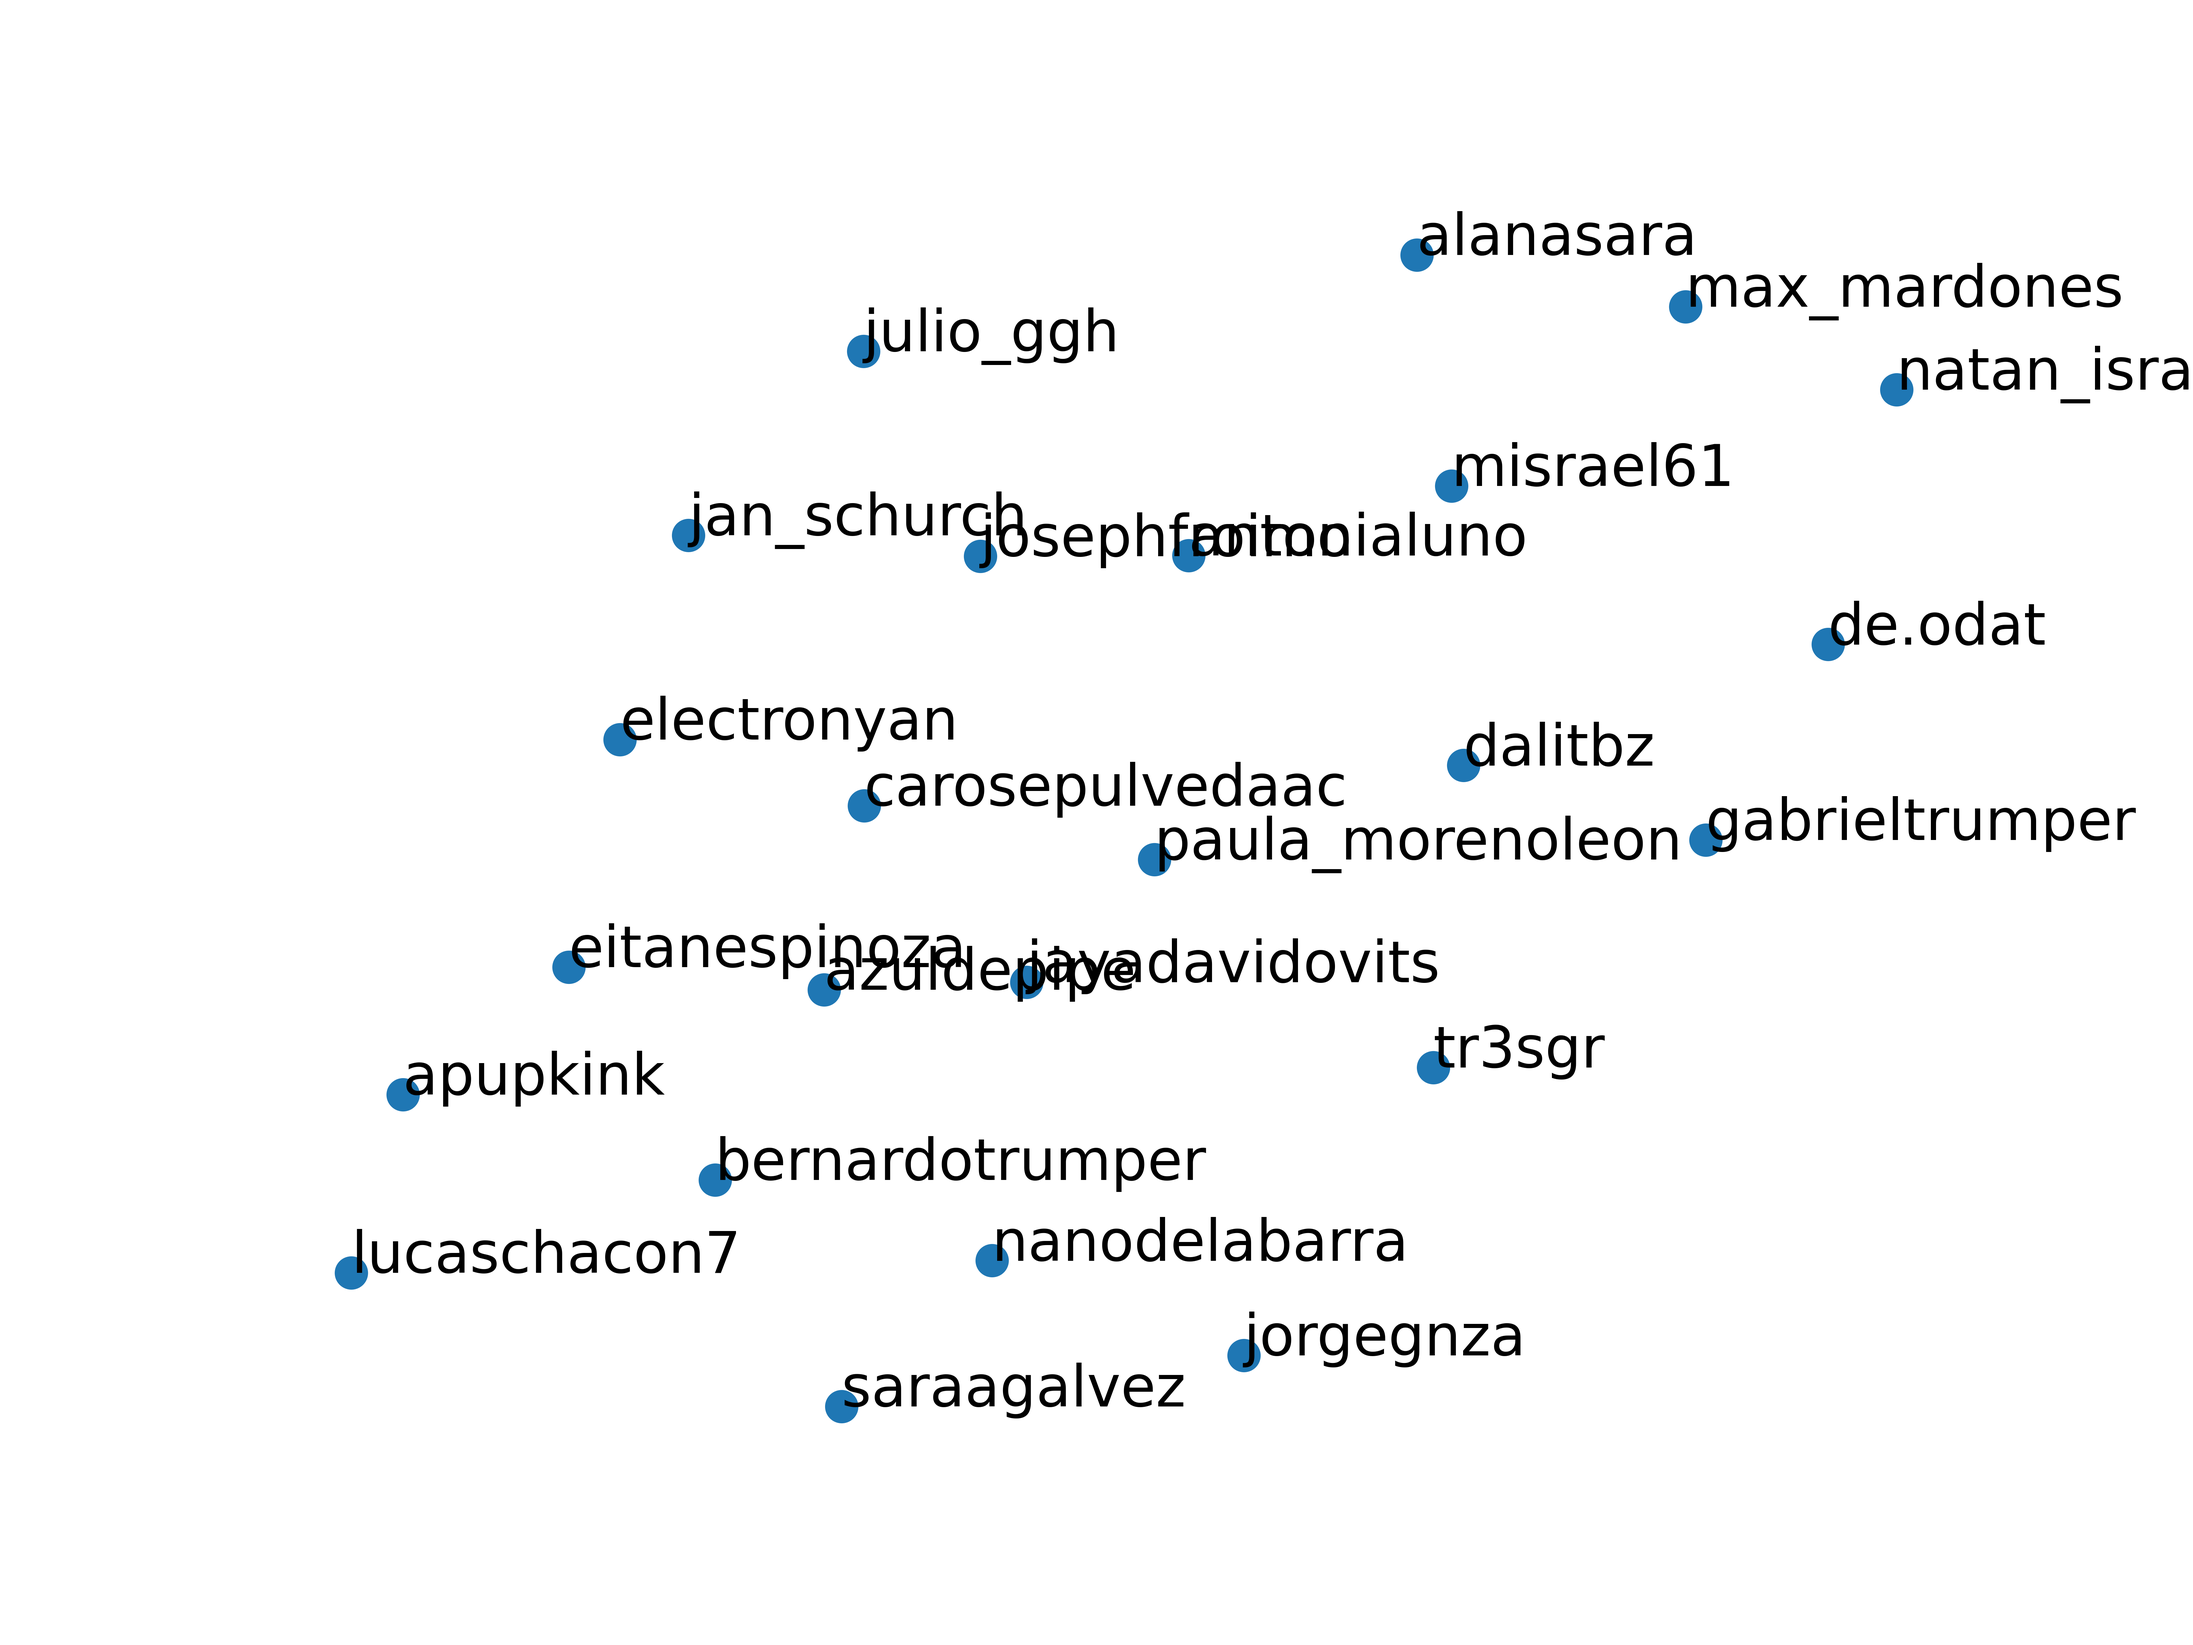
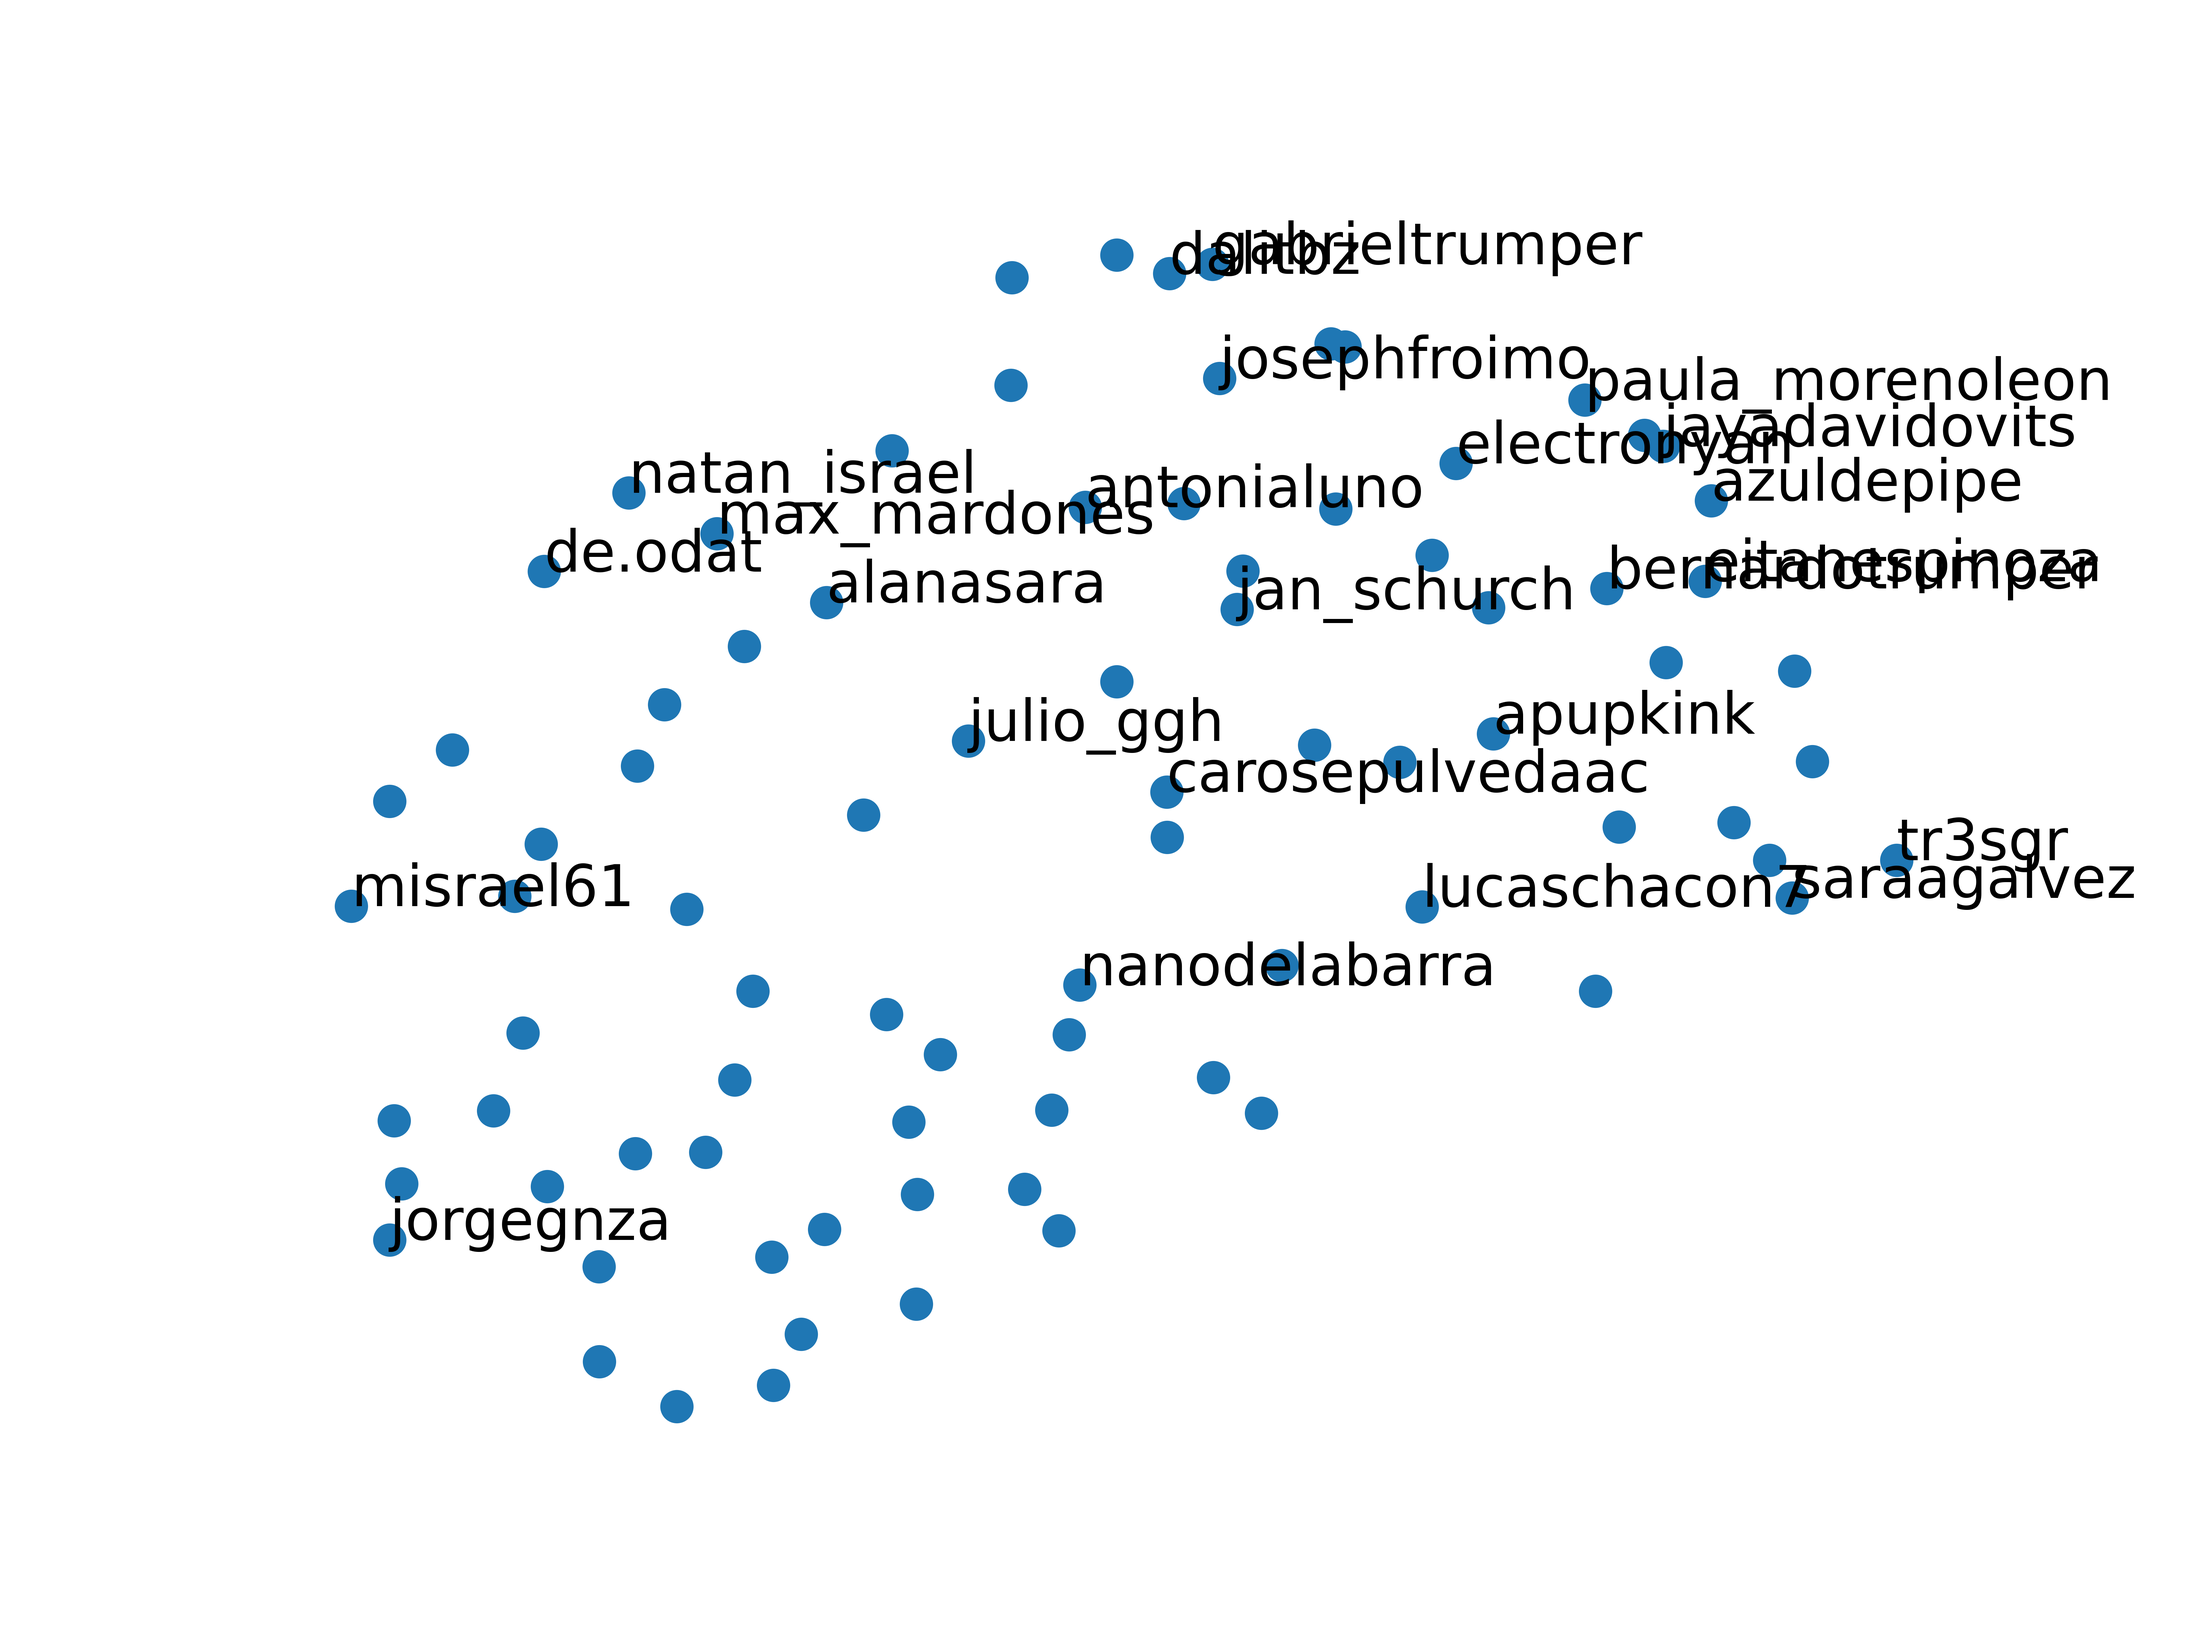
Fix encoding and name cluttering

diff --git a/main.py b/main.py
@@ -11,7 +11,7 @@ print("Libraries imported successfully.")
 
 # Read data and their responses from a CSV file, replace data.csv with own link or file name
 data_map = {}
-with open('data.csv', newline='') as csvfile:
+with open('data.csv', newline='', encoding='utf-8') as csvfile:
     data = csv.reader(csvfile, delimiter=',', quotechar='"')
     next(data)  # Skip the header row
     for row in data:
@@ -43,7 +43,10 @@ label = list(person_embeddings.keys())
 # Plotting and annotating data points
 plt.scatter(x,y)
 for i, name in enumerate(label):
-    plt.annotate(name, (x[i], y[i]), fontsize="12", color="black")  # Increased font size to 12 and set color to white
+    if "NPC" in name:
+        plt.annotate("", (x[i], y[i]), fontsize="0", color="black")
+    else:
+        plt.annotate(name, (x[i], y[i]), fontsize="12", color="black")  # Increased font size to 12 and set color to white
 
 # Clean-up and Export
 plt.axis('off')
